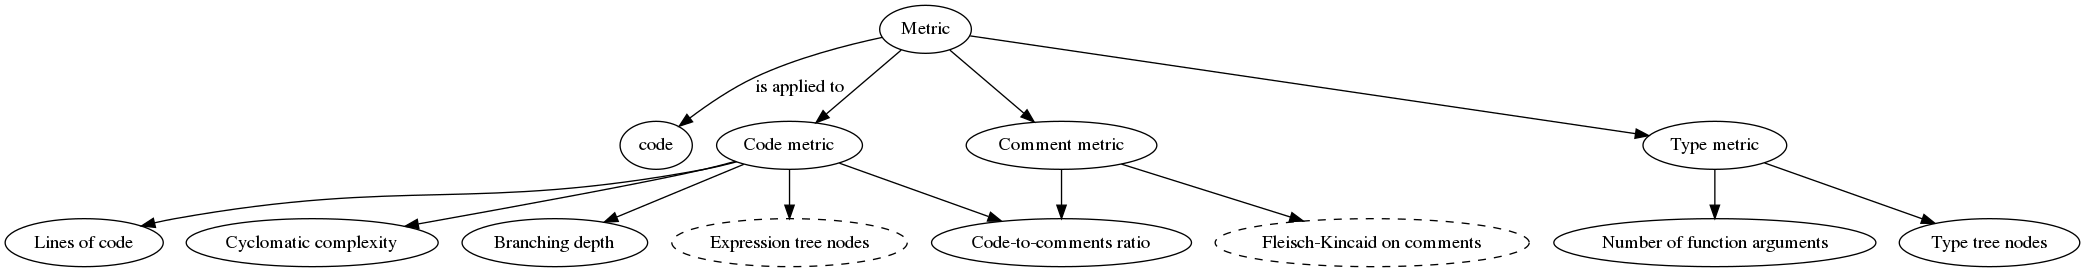
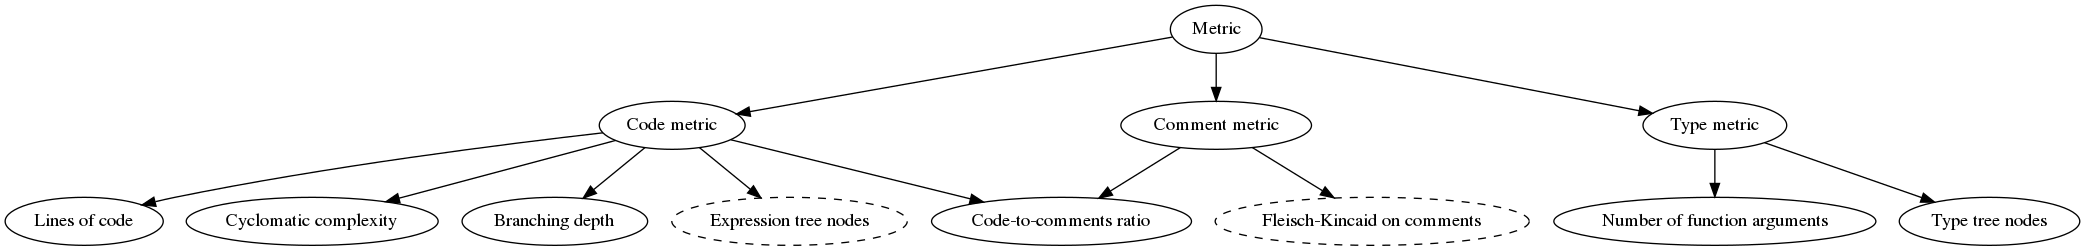
Broken down pictures for presentation.

diff --git a/docs/presi.html b/docs/presi.html
@@ -110,8 +110,19 @@ class: center, middle
 ---
 # Checked properties in Homplexity
 
-![Concepts](metrics.png)
-![Concepts](legend.png)
+![Concepts](metrics_overview.png)
+---
+# Checked code properties
+
+![Concepts](metrics_code.png)
+---
+# Checked type properties
+
+![Concepts](metrics_types.png)
+---
+# Checked comment properties
+
+![Concepts](metrics_comments.png)
 ---
 # Implementation of Homplexity
 
